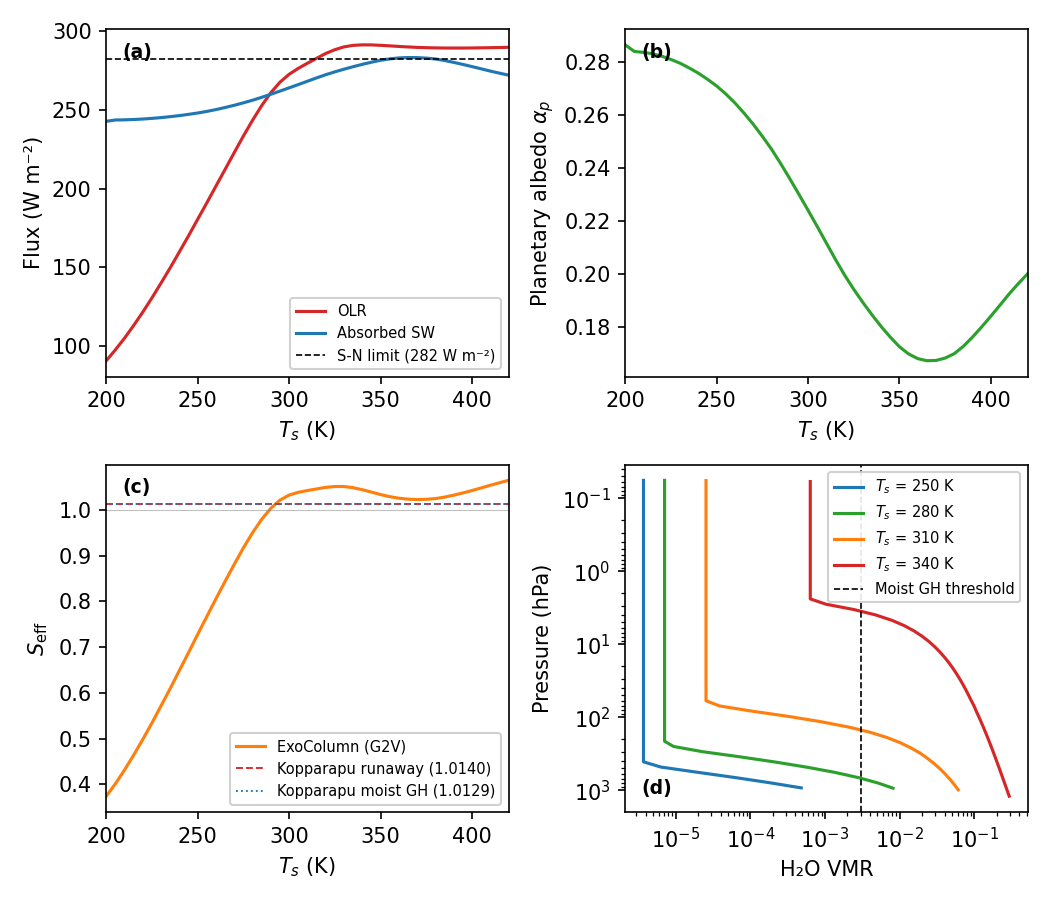
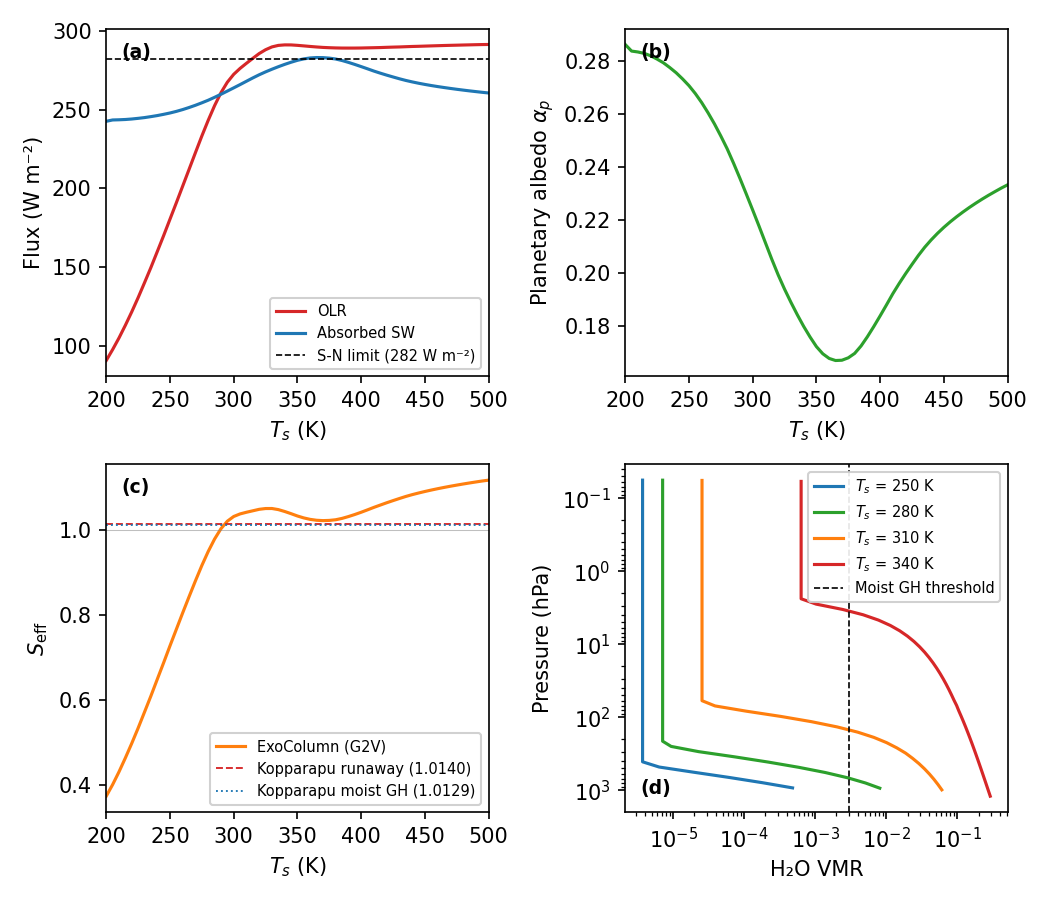
hz_inner: extend Ts range to 500 K
Opacity tables are optimised to Tmax=400 K but extrapolation above is
accepted per Kopparapu and Wolf. Full runaway OLR plateau now visible.

diff --git a/tools/hz_inner.py b/tools/hz_inner.py
@@ -29,7 +29,7 @@ OUT_NC   = os.path.join(ROOT, 'iofiles', 'exocol_out.nc')
 NML_PATH = os.path.join(ROOT, 'exocol_config.nml')
 
 # ---------------------------------------------------------------------------
-TS_VALUES = np.arange(200, 425, 5, dtype=float)   # K
+TS_VALUES = np.arange(200, 505, 5, dtype=float)   # K  (opacity tables optimised to 400 K; extrapolation above accepted)
 
 ALBEDO   = 0.24229   # surface albedo calibrated to Ts=288 K (Kopparapu composition, fixed cold-trap)
 T_STRATO = 200.0     # isothermal stratosphere cap [K]
